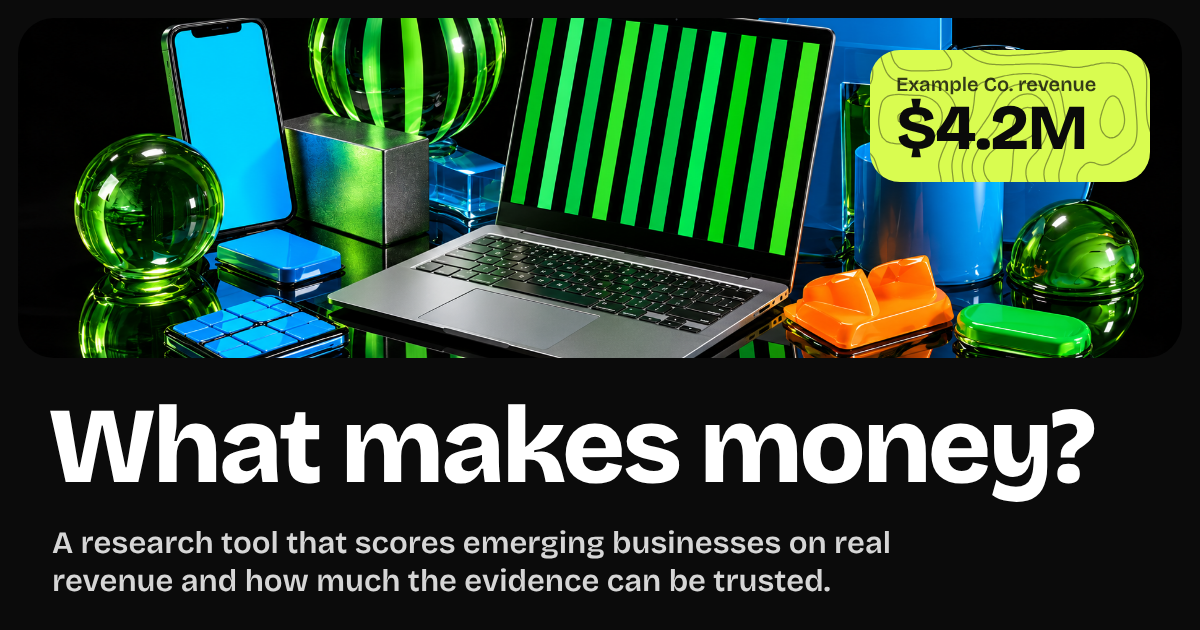
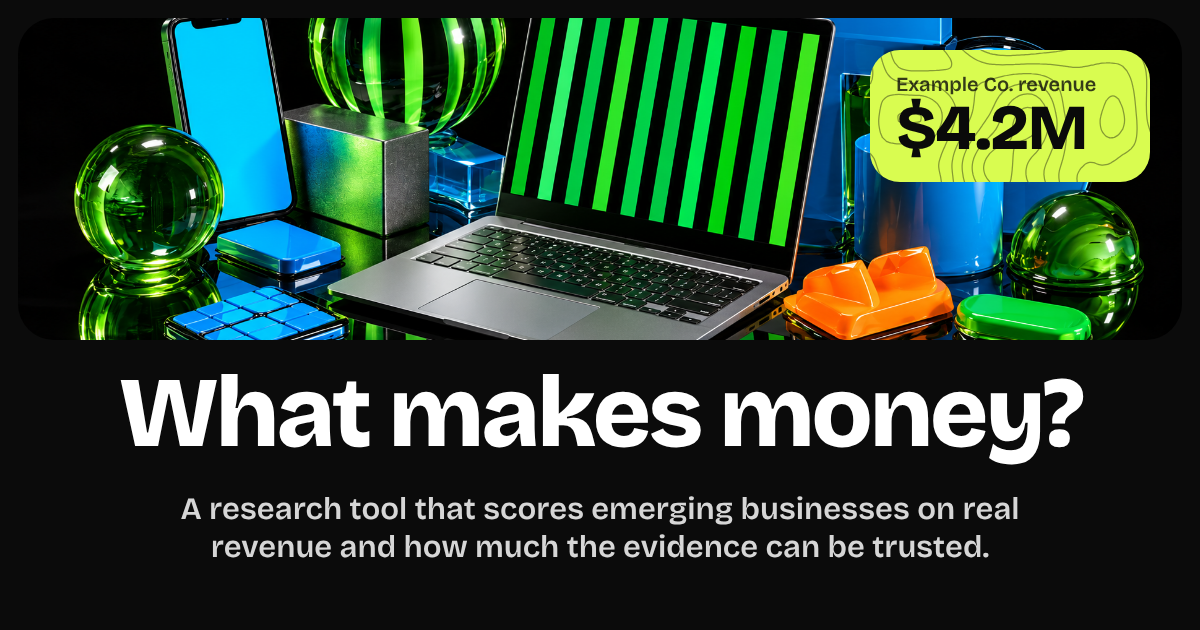
Update share image layout and refresh cached previews
Centred headline and subtitle. The image URL gets a version parameter so
platforms fetch the new image instead of serving the cached one.

Changed region(s): [[0.0308, 0.0302, 0.9558, 0.9349]]

diff --git a/app/layout.tsx b/app/layout.tsx
@@ -5,7 +5,8 @@ const TITLE = "What makes money?";
 const DESCRIPTION =
   "Emerging products with real revenue, scored on how much the evidence can be trusted. Search a company, ask a question, or pick a starting point.";
 // Shown by iMessage, Slack, X, LinkedIn and others when the link is shared. 1200x630, the standard share size.
-const SHARE_IMAGE = { url: "/wmm-meta-share-image.png", width: 1200, height: 630, alt: "What makes money? A research tool that scores emerging businesses on real revenue and how much the evidence can be trusted." };
+// Bump ?v= whenever the image file changes: platforms cache previews by URL and would keep showing the old one.
+const SHARE_IMAGE = { url: "/wmm-meta-share-image.png?v=2", width: 1200,
 
 export const metadata: Metadata = {
   // Makes the relative image path absolute in share tags, which most platforms require.
